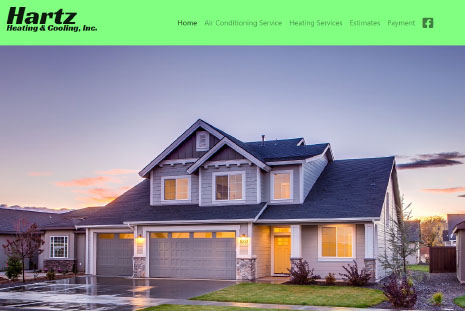
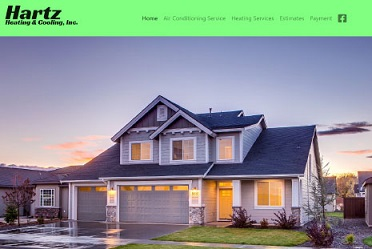
Updated photo sizes, cleaned CSS

diff --git a/index.html b/index.html
@@ -2,7 +2,7 @@
 <html lang="en">
 <!-- 
 ==============================================================    
-Welcome to my html code!
+I see you have found my code! You can see the rest on my Github page at github.com/dhrandy
 Designed and edited by Randy Gentry.
 ==============================================================  
 -->
@@ -26,20 +26,7 @@ Designed and edited by Randy Gentry.
 </head>
 
 <body>
-
     <header class="hero-image" id="home">
-        <!-- <nav>
-            <ul class="container-link">
-                <li class="link link-1"><a href="#about">ABOUT</a></li>
-                <li class="link link-2"><a href="#knowledge">KNOWLEDGE</a></li>
-                <li class="link link-3"><a href="#portfolio">PORTFOLIO</a></li>
-                <li class="link link-4"><a href="#hobbies">HOBBIES</a></li>
-                <li class="link link-5"><a href="#hobbies">CONTACT</a></li>
-                <a href="javascript:void(0);" class="icon" onclick="myFunction()">
-                    <i class="fa fa-bars"></i>
-                </a>
-            </ul>
-        </nav> -->
         <div class="center">
             <div class="topnav" id="myTopnav">
                 <a href="#about">ABOUT</a>
@@ -107,7 +94,6 @@ Designed and edited by Randy Gentry.
                                 class="icon">
                         </div>
                     </div>
-
                 </div>
                 <div class="container-item-2-2">
                     <div class="container-item-1-2-1">
@@ -115,12 +101,10 @@ Designed and edited by Randy Gentry.
                                 title="REACT JS Icon" class="icon">
                         </div>
                     </div>
-
                     <div class="container-item-1-2-2">
                         <div class="icon-background"><img src="assets/imgs/js-icon.png" alt="Javascript Icon"
                                 title="Javascript Icon" class="icon"></div>
                     </div>
-
                 </div>
             </div>
             <div class="container-item-2">
@@ -298,7 +282,6 @@ Designed and edited by Randy Gentry.
             <a href="https://www.instagram.com/dhrandy/" class="fab fa-instagram social-footer foot-icon"
                 target="_blank"></a>
         </div>
-
         <div class="footer-link">
             <a href="#home" class="link-home">HOME</a>
             <a href="#about" class="link-about">ABOUT</a>
@@ -307,7 +290,6 @@ Designed and edited by Randy Gentry.
             <a href="#hobbies" class="link-hobbies">HOBBIES</a>
             <a href="#contact" class="link-contact">CONTACT</a>
         </div>
-
         <div class="footer center">
             © 2018 | Designed by Randy Gentry |
             <a href="https://github.com/dhrandy/dhrandy.github.io" class="github-link">See My Code</a>

diff --git a/assets/css/style.css b/assets/css/style.css
@@ -101,32 +101,6 @@ hr {
   font-size: 27px;
 }
 
-/* nav .container-link {
-  list-style: none;
-  color: white;
-  display: flex;
-  justify-content: center;
-  height: 20px;
-  flex-direction: row;
-  text-align: center;
-}
-nav ul .link {
- /*font-family: "Roboto", sans-serif;
-  width: 300px;
-  padding: 20px;
-  width: 80%;
-  margin: 15px auto;
-}
-.link a:link, a:visited, a:hover, a:active {
-  text-decoration: none;
-}
-.link a {
-  color: white;
-}
-.link a:hover {
-  color: darkgray;
-}
-*/
 /* Sections */
 .title h1 {
   padding-bottom: 30px;
